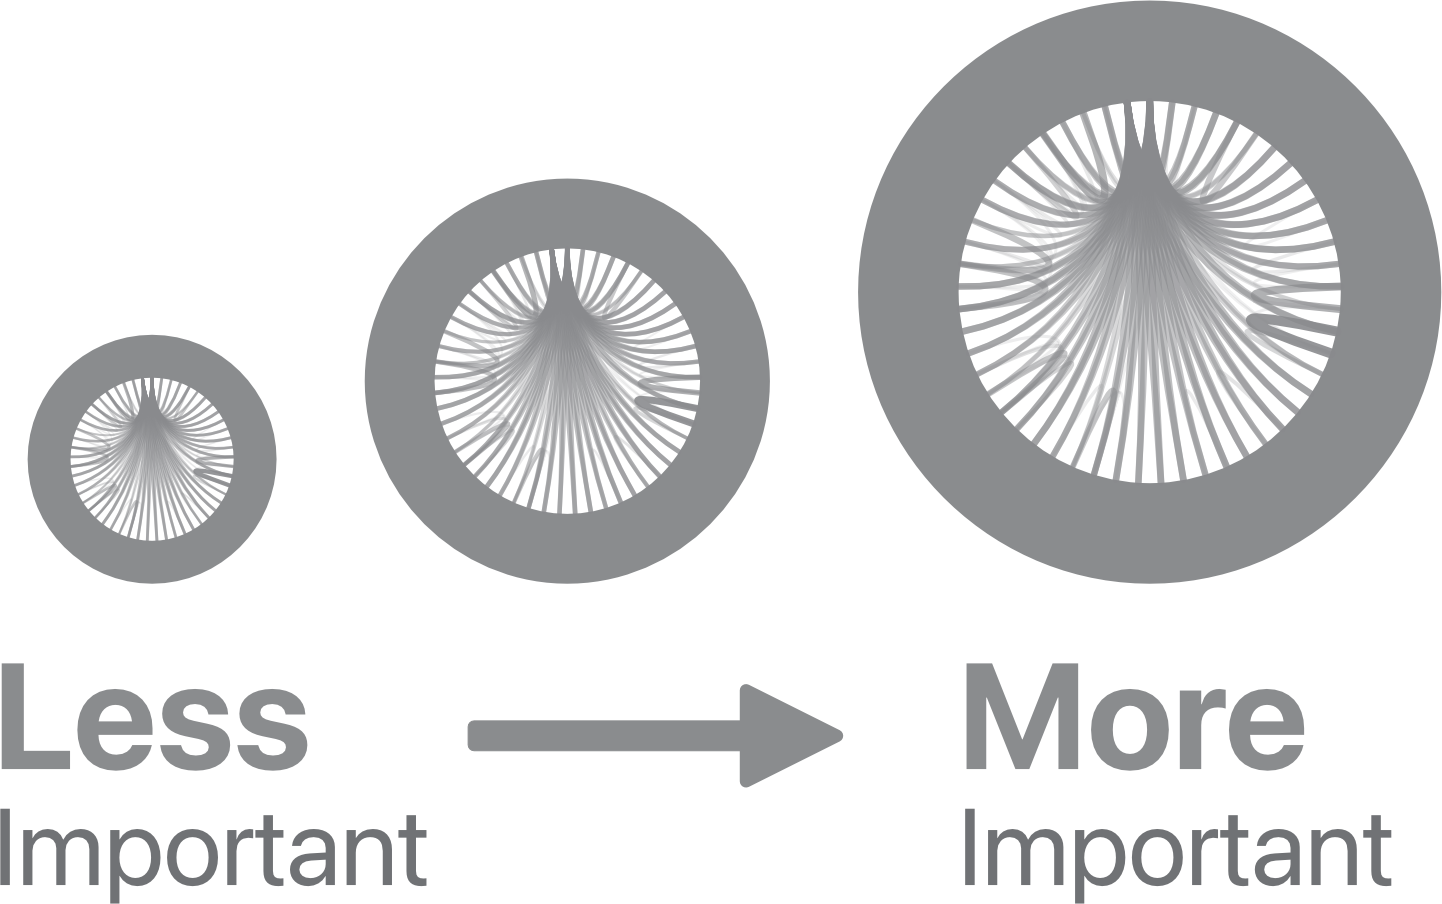
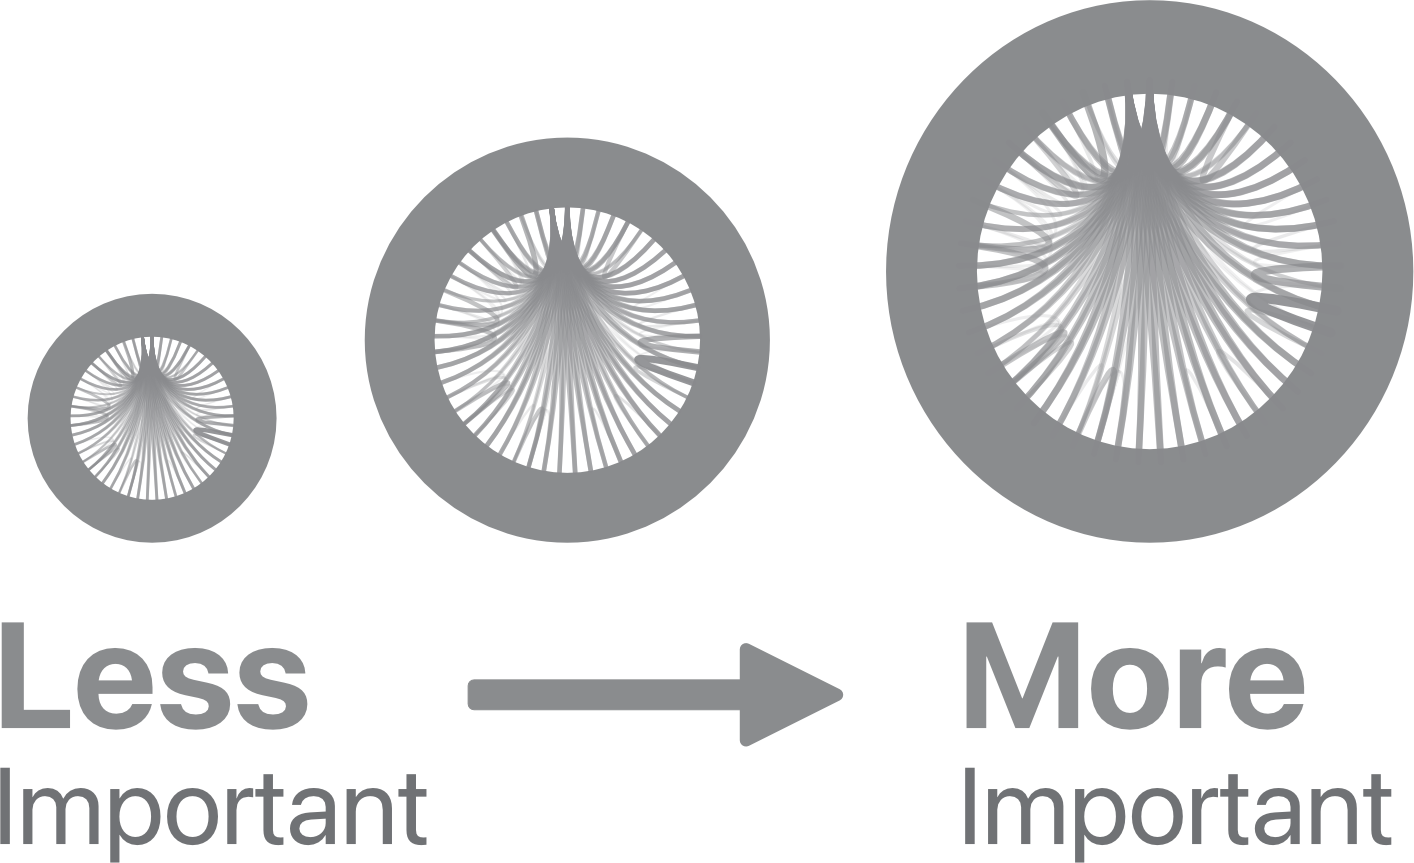
Add arrow annotation

diff --git a/src/Atlas.svelte b/src/Atlas.svelte
@@ -23,8 +23,7 @@
   let instanceViewConfig = undefined;
   let SVGInitialized = false;
 
-  const SVGPadding = {top: 3, left: 15, right: 15, bottom: 3};
-  const textTokenPadding = {top: 3, left: 3, right: 3, bottom: 3};
+  const SVGPadding = {top: 3, left: 10, right: 10, bottom: 3};
 
   const ease = d3.easeCubicInOut;
   const animationTime = 300;
@@ -127,78 +126,90 @@
   };
 
   const createGraph = () => {
-    initSVG();
 
+    const layerNum = attentions.length;
+    const headNum = attentions[0].length;
+
+    let availableWidth = SVGWidth - 210 - SVGPadding.left - SVGPadding.right;
+    let availableHeight = SVGHeight - 70 - SVGPadding.top - SVGPadding.bottom;
+
+    let availableLength = Math.min(availableHeight, availableWidth);
+    console.log(availableLength, availableWidth, availableHeight);
+    const gridGap = 5;
+
+    const gridLength = Math.floor((availableLength - (layerNum - 1) * gridGap) / layerNum);
+    const maxOutRadius = gridLength / 2;
     const minOutRadius = 10;
-    const maxOutRadius = 25;
 
-    // let arc = d3.arc()
-    //   .innerRadius(15)
-    //   .outerRadius(outRadius)
-    //   .startAngle(0)
-    //   .endAngle(Math.PI * 2);
-    
-    // let tokens = data.words.map(d => {return {'token': d, 'value': 1};});
+    let adjustedRowGap = Math.floor((availableWidth - headNum * gridLength) / (layerNum + 1));
+    let adjustedColGap = Math.floor((availableHeight - layerNum * gridLength) / (layerNum + 1));
 
-    // let pie = d3.pie()
-    //   .sort(null)
-    //   .value(d => d.value);
+    d3.select(viewContainer)
+      .select('.svg-container')
+      .style('top', `${70}px`);
 
-    // let arcs = pie(tokens);
+    svg = d3.select(svg)
+      .attr('width', availableWidth)
+      .attr('height', availableHeight);
 
-    // console.log(arcs);
+    // Add a border
+    svg.append('rect')
+      .attr('class', 'border-rect')
+      .attr('width', availableLength)
+      .attr('height', availableLength)
+      .style('stroke', 'black')
+      .style('fill', 'none');
 
     let donutGroup = svg.append('g')
       .attr('class', 'donut-group')
-      .attr('transform', 'translate(60, 150)');
+      .attr('transform', `translate(${SVGPadding.left + maxOutRadius}, ${maxOutRadius})`);
     
     // Create color scale
     let hueScale = d3.scaleLinear()
       .domain([-1, 0, 1])
       .range([red, purple, blue]);
-    
-    let chromaScale = d3.scaleLinear()
-      .domain([0, 1])
-      .range([0, 100]);
-
-    let alphaScale = d3.scaleLinear()
-      .domain([0, 1])
-      .range([0, 1]);
 
     let lightnessScale = d3.scaleLinear()
       .domain([0, 1])
       .range([130, 40]);
 
     // Use square root scale
-    let outRadiusScale = d3.scalePow()
-      .exponent(0.5)
+    let outRadiusScale = d3.scaleLinear()
       .domain([0, 1])
       .range([minOutRadius, maxOutRadius]);
+
+    let ringRadiusScale = d3.scaleLinear()
+      .domain([0, 1])
+      .range([4, 7]);
 
     let scales = {
       hueScale: hueScale,
       lightnessScale: lightnessScale,
-      outRadiusScale: outRadiusScale
+      outRadiusScale: outRadiusScale,
+      ringRadiusScale: ringRadiusScale
     };
-
-    // atlasData = atlasData.slice(2, 4);
 
     let donuts = donutGroup.selectAll('g.donut')
       .data(atlasData)
       .join('g')
       .attr('class', 'donut')
-      .attr('transform', d => `translate(${d.head * (maxOutRadius * 2 + 5)},
-        ${d.layer * (maxOutRadius * 2 + 5)})`);
+      .attr('transform', d => `translate(${d.head * (maxOutRadius * 2 + adjustedRowGap)},
+        ${d.layer * (maxOutRadius * 2 + adjustedColGap)})`);
 
     // Draw the donuts
-    let start = new Date();
     donuts.each((d, i, g) => drawDonut(d, i, g, scales));
-    console.log('rendering', new Date() - start);
 
     console.log(atlasData);
-        
-    // Draw the legend
-    // create2DColorLegend();
+
+    d3.select(viewContainer)
+      .select('.head-arrow')
+      .style('top', `${70 - 40}px`)
+      .style('left', `${availableWidth - 170}px`);
+
+    d3.select(viewContainer)
+      .select('.layer-arrow')
+      .style('top', `${70}px`)
+      .style('left', `${availableWidth}px`);
 
   };
 
@@ -206,7 +217,7 @@
     let donut = d3.select(g[i]);
 
     let outRadius = scales.outRadiusScale(d.confidence);
-    const ringRadius = 7;
+    let ringRadius = scales.ringRadiusScale(d.confidence);
     let inRadius = Math.max(0, outRadius - ringRadius);
 
     // Draw the rings
@@ -237,14 +248,6 @@
         id: i
       });
     }
-
-    // donut.selectAll('circle.dot')
-    //   .data(tokenPos)
-    //   .join('circle')
-    //   .attr('class', 'dot')
-    //   .attr('cx', d => d.x)
-    //   .attr('cy', d => d.y)
-    //   .attr('r', 1);
 
     // Create the links
     let links = [];
@@ -364,12 +367,21 @@
 
   @import 'define';
 
+  .atlas-view {
+    position: relative;
+  }
+
   .svg-container {
     width: 100%;
     height: 100%;
     overflow-x: scroll;
     position: relative;
     cursor: default;
+
+    display: flex;
+    flex-direction: row;
+    justify-content: space-around;
+    align-items: flex-end;
   }
 
   .atlas-view {
@@ -377,41 +389,93 @@
     flex-direction: row;
   }
 
-  .legend-canvas-container {
-    position: absolute;
-  }
-
   .legend-container {
-    position: absolute;
-    right: 10px;
-    bottom: 20px;
+    padding-bottom: 25px;
     display: flex;
     flex-direction: column;
+    pointer-events: none;
 
     :first-child {
-      margin-bottom: 25px;
+      margin-bottom: 35px;
     }
   }
 
- .svg-container {
+  .badge {
+    position: absolute;
+    left: 0px;
+    top: 10px;
+    font-size: 1.2em;
+
+    display: flex;
+    flex-direction: row;
+    align-items: center;;
+    justify-content: flex-start;
+
+    border-radius: 0 5px 5px 0;
+    border-top: 1px solid hsl(0, 0%, 90%);
+    border-right: 1px solid hsl(0, 0%, 90%);
+    border-bottom: 1px solid hsl(0, 0%, 90%);
+    background: hsla(0, 0%, 100%, 0.65);
+    padding: 8px 15px;
+
+    cursor: pointer;
+
+    .icon-wrapper {
+      margin-right: 15px;
+    }
+
+    &:hover {
+      background: hsla(0, 0%, 96%, 0.65);
+    }
+  }
+
+  .atlas-svg-container {
     position: relative;
   }
 
+  .head-arrow {
+    position: absolute;
+    width: 160px;
+    pointer-events: none;
+  }
+
+  .layer-arrow {
+    position: absolute;
+    height: 160px;
+    pointer-events: none;
+  }
 
 </style>
 
 <div class='atlas-view' bind:this={viewContainer}>
 
-  <div class='svg-container'>
-    <div class='legend-canvas-container'></div>
+  <div class='badge'>
+    <div class='icon-wrapper active'>
+      <i class="fas fa-chevron-right"></i>
+    </div>
 
-    <svg class='atlas-svg' bind:this={svg}></svg>
+    <div class='badge-title'>
+      Attention Head Map
+    </div>
+    
+  </div>
+
+  <div class='svg-container'>
+
+    <div class='atlas-svg-container'>
+      <svg class='atlas-svg' bind:this={svg}></svg>
+    </div>
 
     <div class='legend-container'>
       <img src='/figures/size-legend.png' width='160px' alt='size legend'>
       <img src='/figures/legend.png' width='200px' alt='color legend'>
-
     </div>
+
+    
+
   </div>
+
+  <img class='head-arrow' width=160 src='/figures/head-arrow.png' alt='head arrow'>
+  <img class='layer-arrow' height=160 src='/figures/layer-arrow.png' alt='layer arrow'>
   
 </div>
